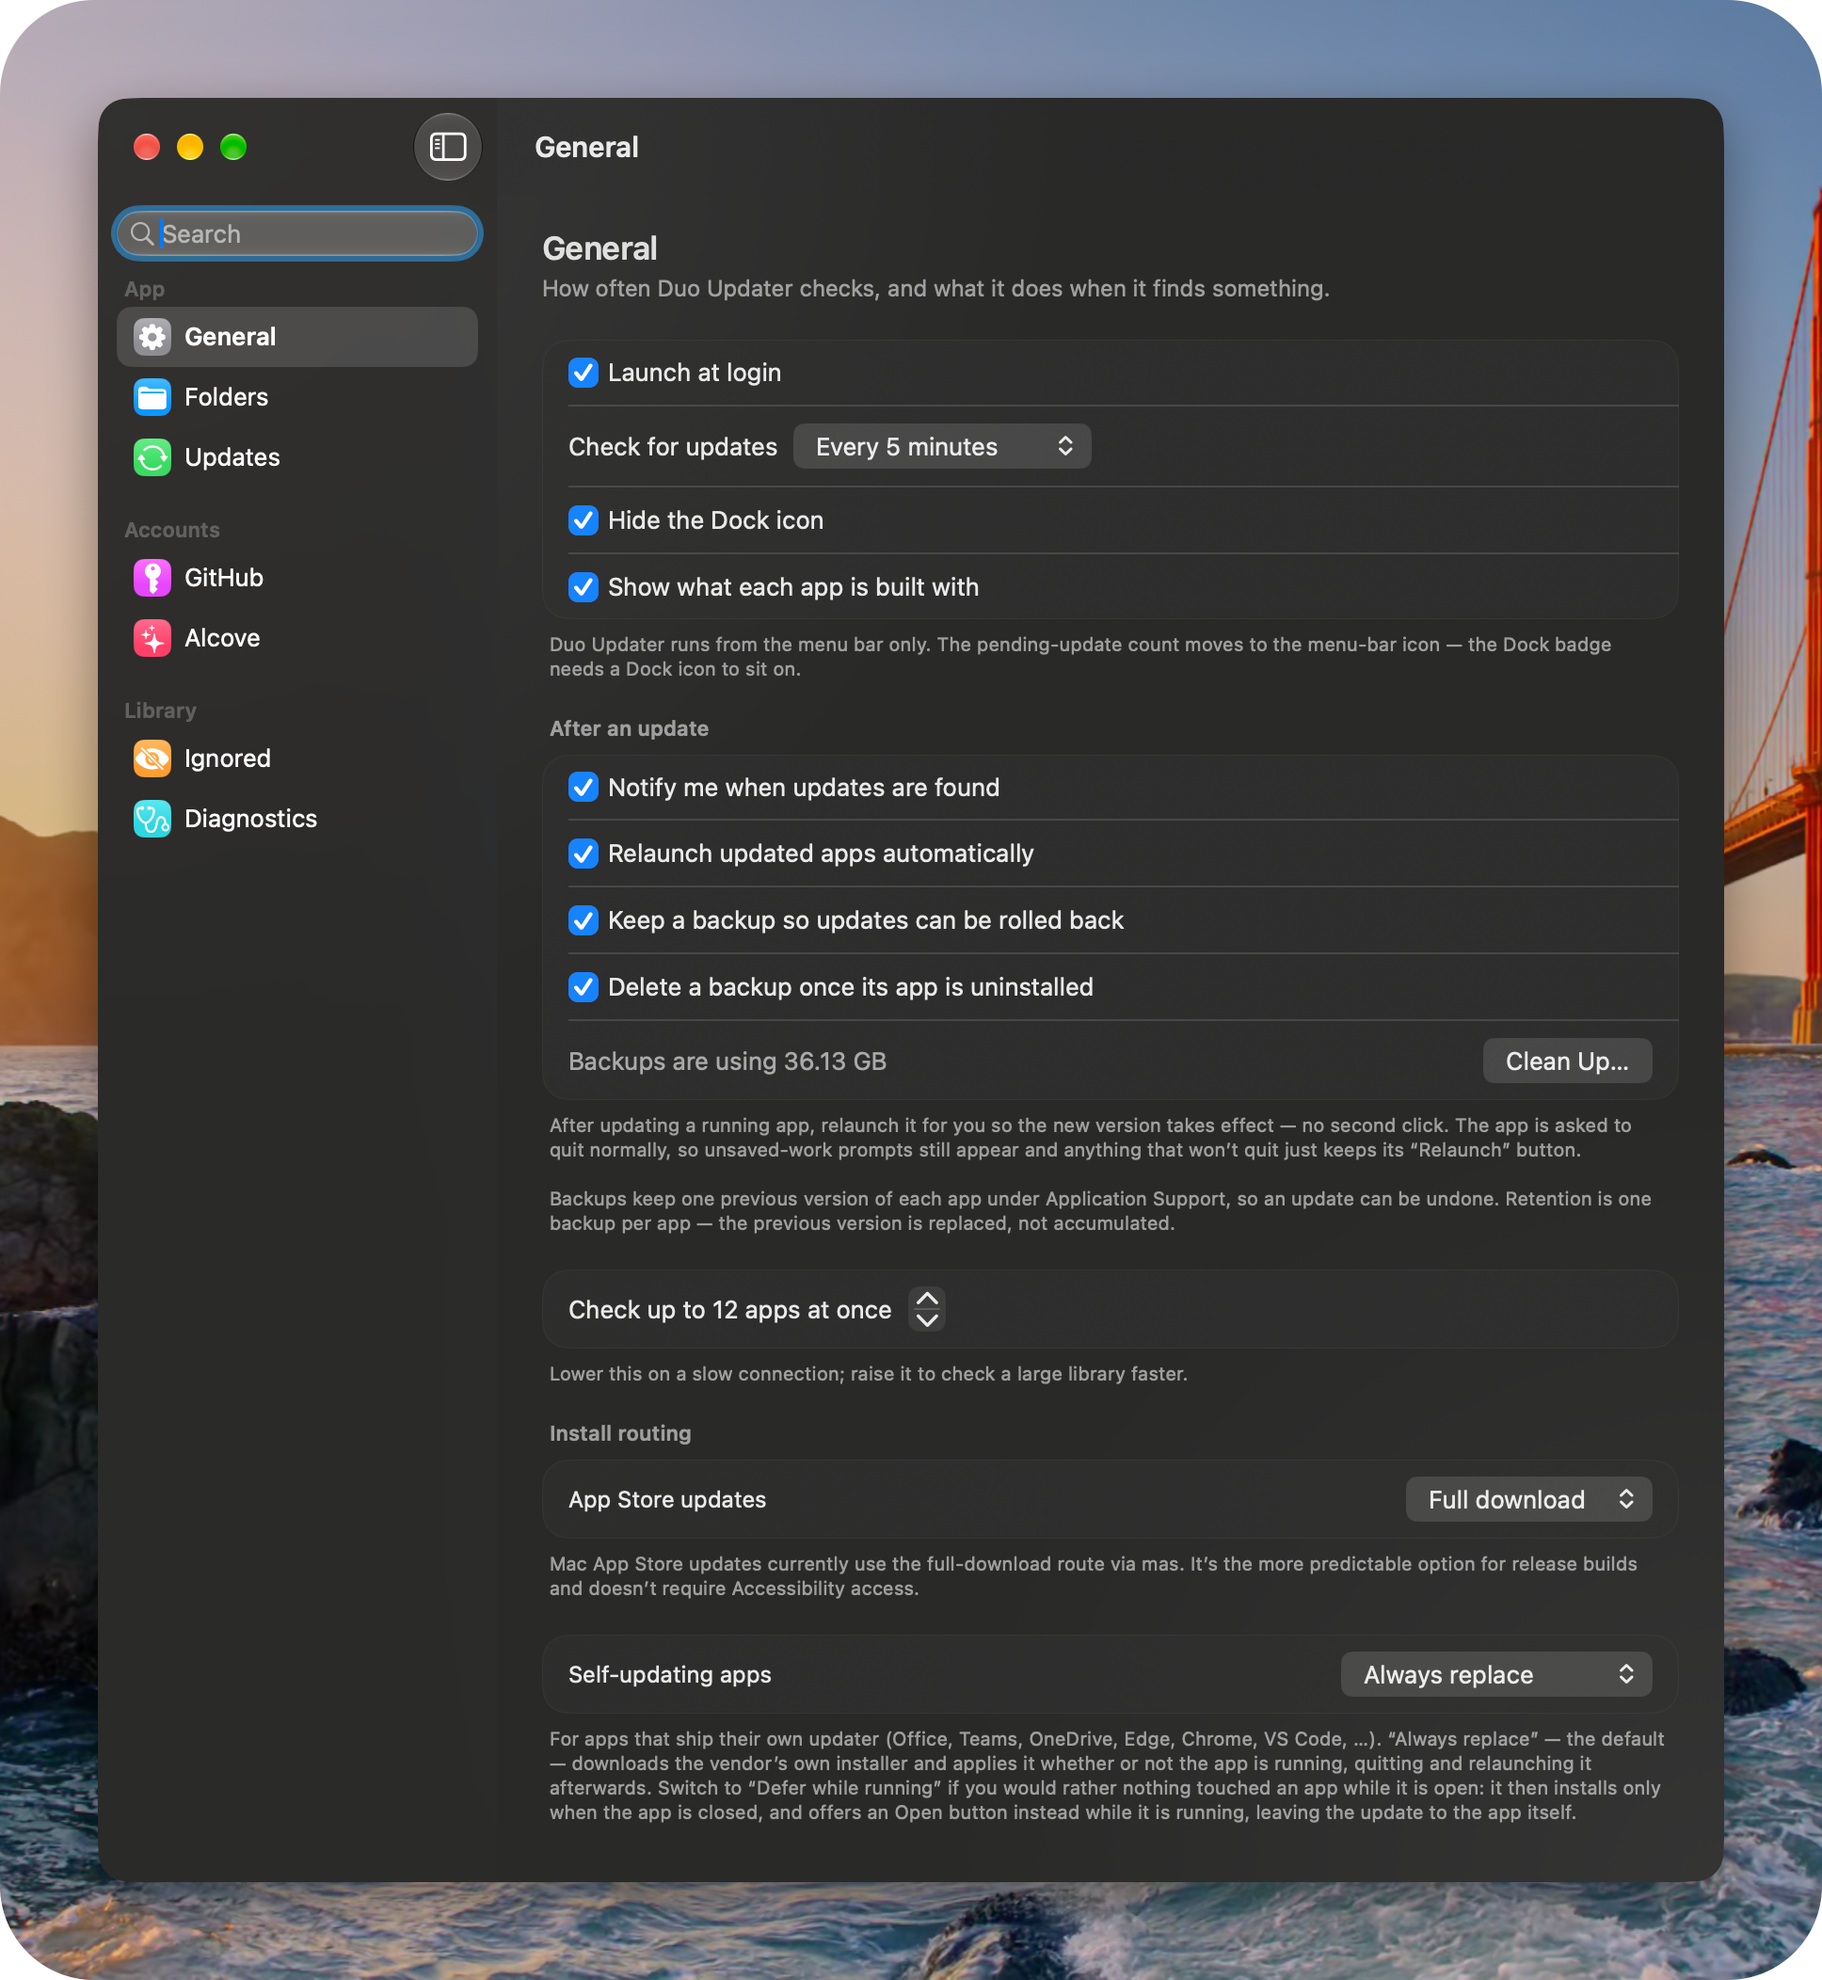
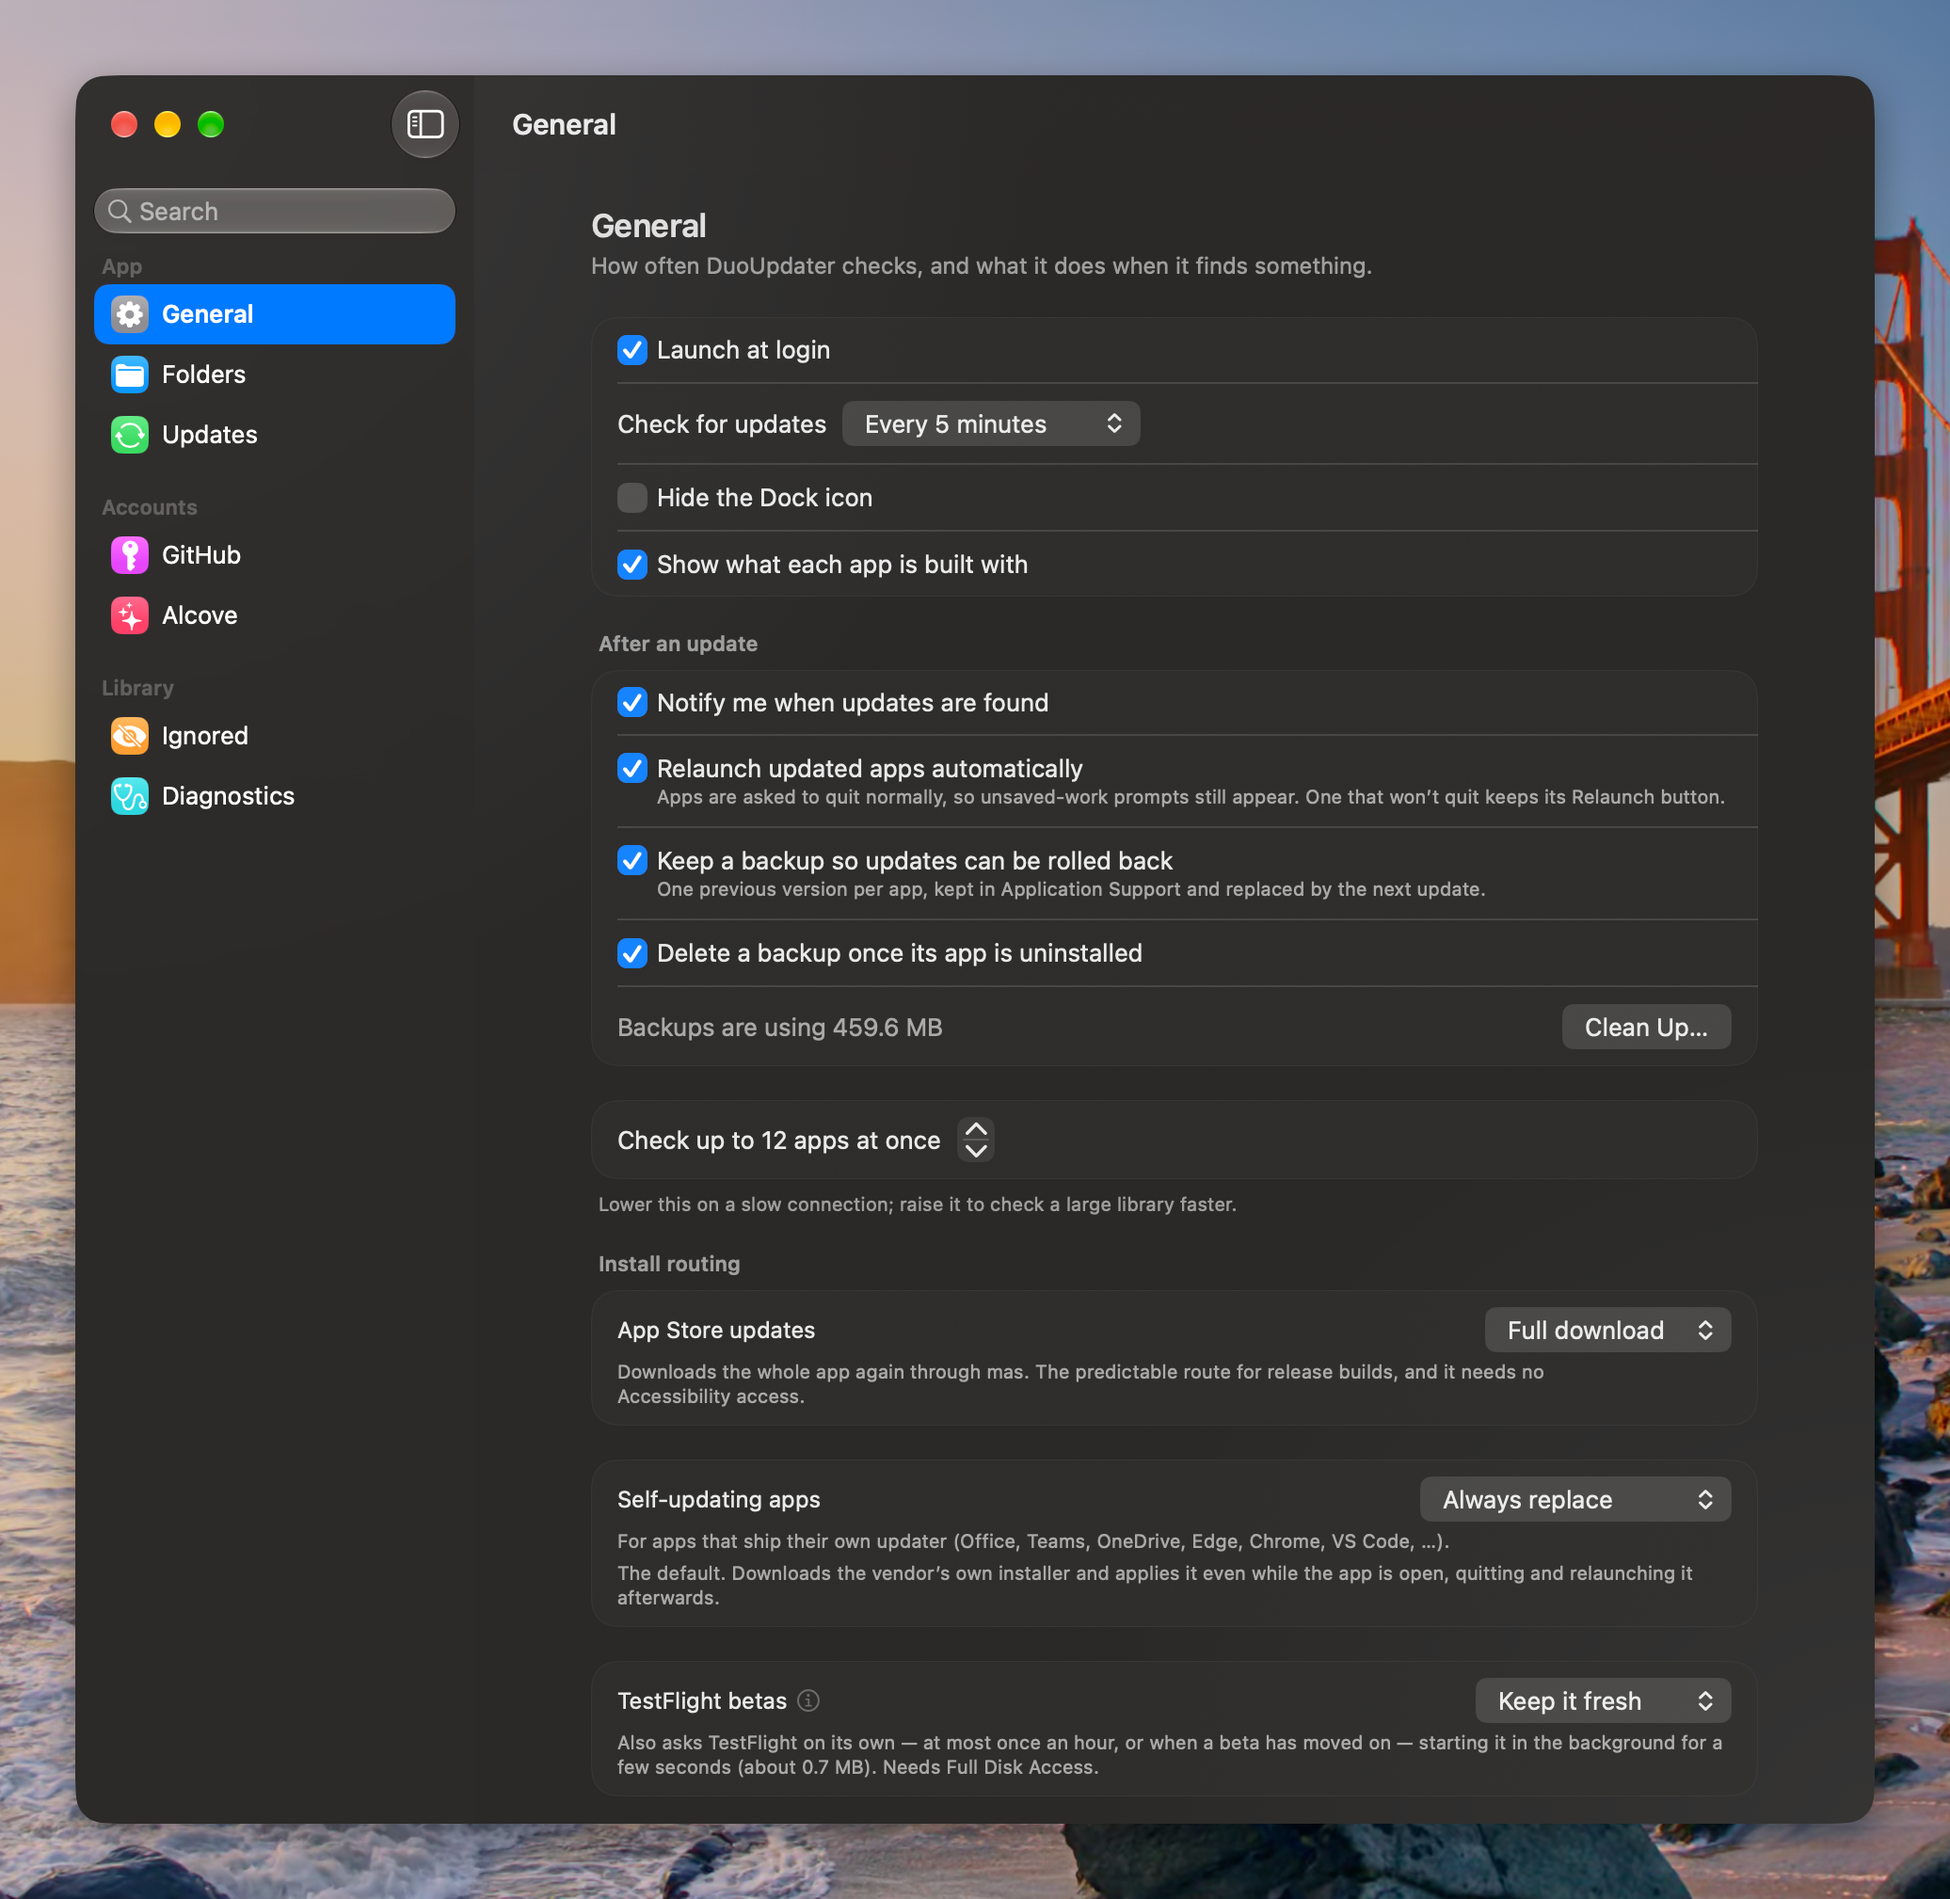
New menu bar and settings screenshots
The 0.3.95 captures from the app repo (duo-updater#689), copied byte for
byte, with alt text that describes them: the old menu bar alt still named a
hover card over Microsoft Word, and the settings alt now covers the sidebar,
the Dock icon toggle, notifications, backup space and TestFlight betas.

Only the two images were copied, not a full sync: the rest of that checkout
is an unmerged branch.

diff --git a/app/page.tsx b/app/page.tsx
@@ -82,7 +82,7 @@ export default async function HomePage() {
       <figure className="shot">
         <Image
           src={menuBarShot}
-          alt="The DuoUpdater menu bar popover, listing apps with an update available: each row shows the installed version, the new version, a small badge for what the app is built with, and an Update button. A hover card over Microsoft Word reads: Native — a native Mac app, built straight on Apple's frameworks, not a cross-platform runtime. Links AppKit and SwiftUI."
+          alt="The DuoUpdater menu bar popover, headed 58 updates available with an Update All button and a search field. Each row shows the installed version, the new version, a small badge for what the app is built with, and an Update button; Amp's row reads 1.0 (374) to 1.0 (390). A hover card over AndroMeld's badge reads: Native — a native Mac app, built straight on Apple's frameworks, not a cross-platform runtime. Links AppKit and SwiftUI. Built with the macOS 26.5 SDK. A row at the bottom reports 3 Homebrew packages not checked."
           className="shot-narrow"
           sizes="(max-width: 52rem) 100vw, 420px"
           priority
@@ -183,7 +183,7 @@ export default async function HomePage() {
       <figure className="shot">
         <Image
           src={settingsShot}
-          alt="DuoUpdater's General settings: launch at login, check interval, whether to show what each app is built with, post-update behaviour including automatic relaunch and rollback backups, how many apps to check at once, and install routing for App Store and self-updating apps."
+          alt="DuoUpdater's General settings, beside a sidebar listing Folders, Updates, GitHub, Alcove, Ignored and Diagnostics: launch at login, check interval, hiding the Dock icon, whether to show what each app is built with, notifications, automatic relaunch, rollback backups and the space they use, how many apps to check at once, and install routing for App Store updates, self-updating apps and TestFlight betas."
           className="shot-wide"
           sizes="(max-width: 52rem) 100vw, 760px"
         />
